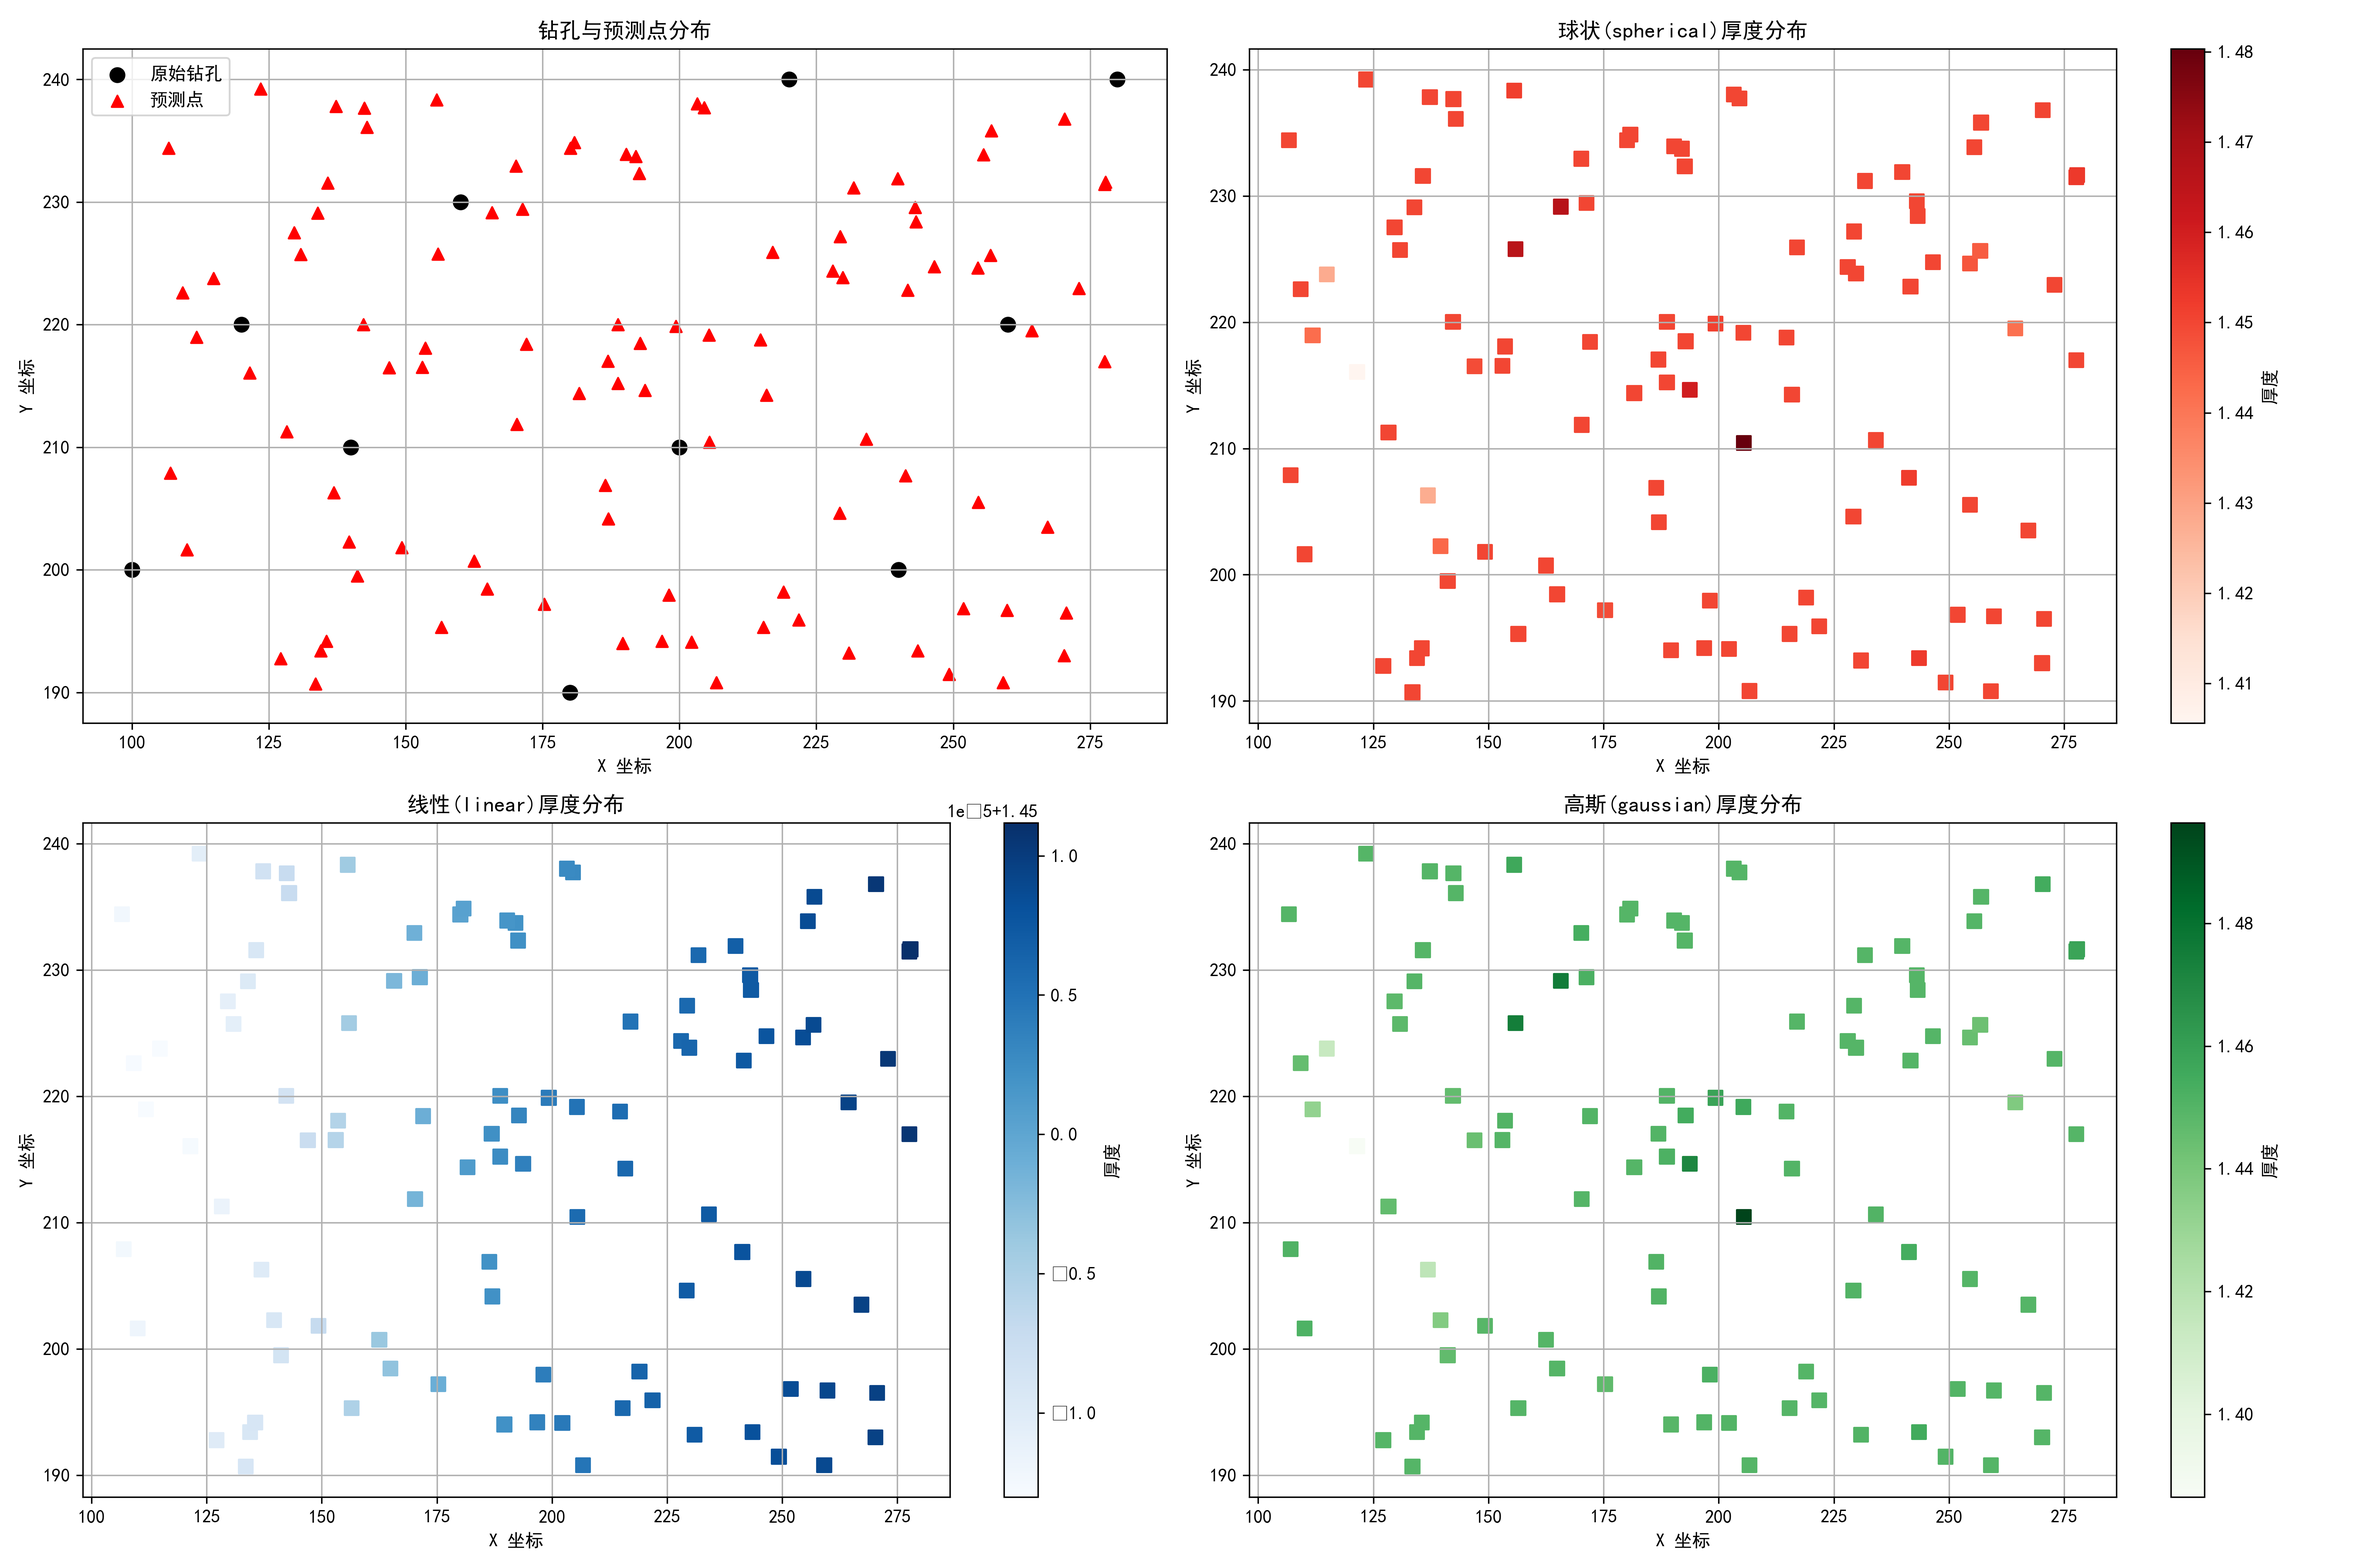
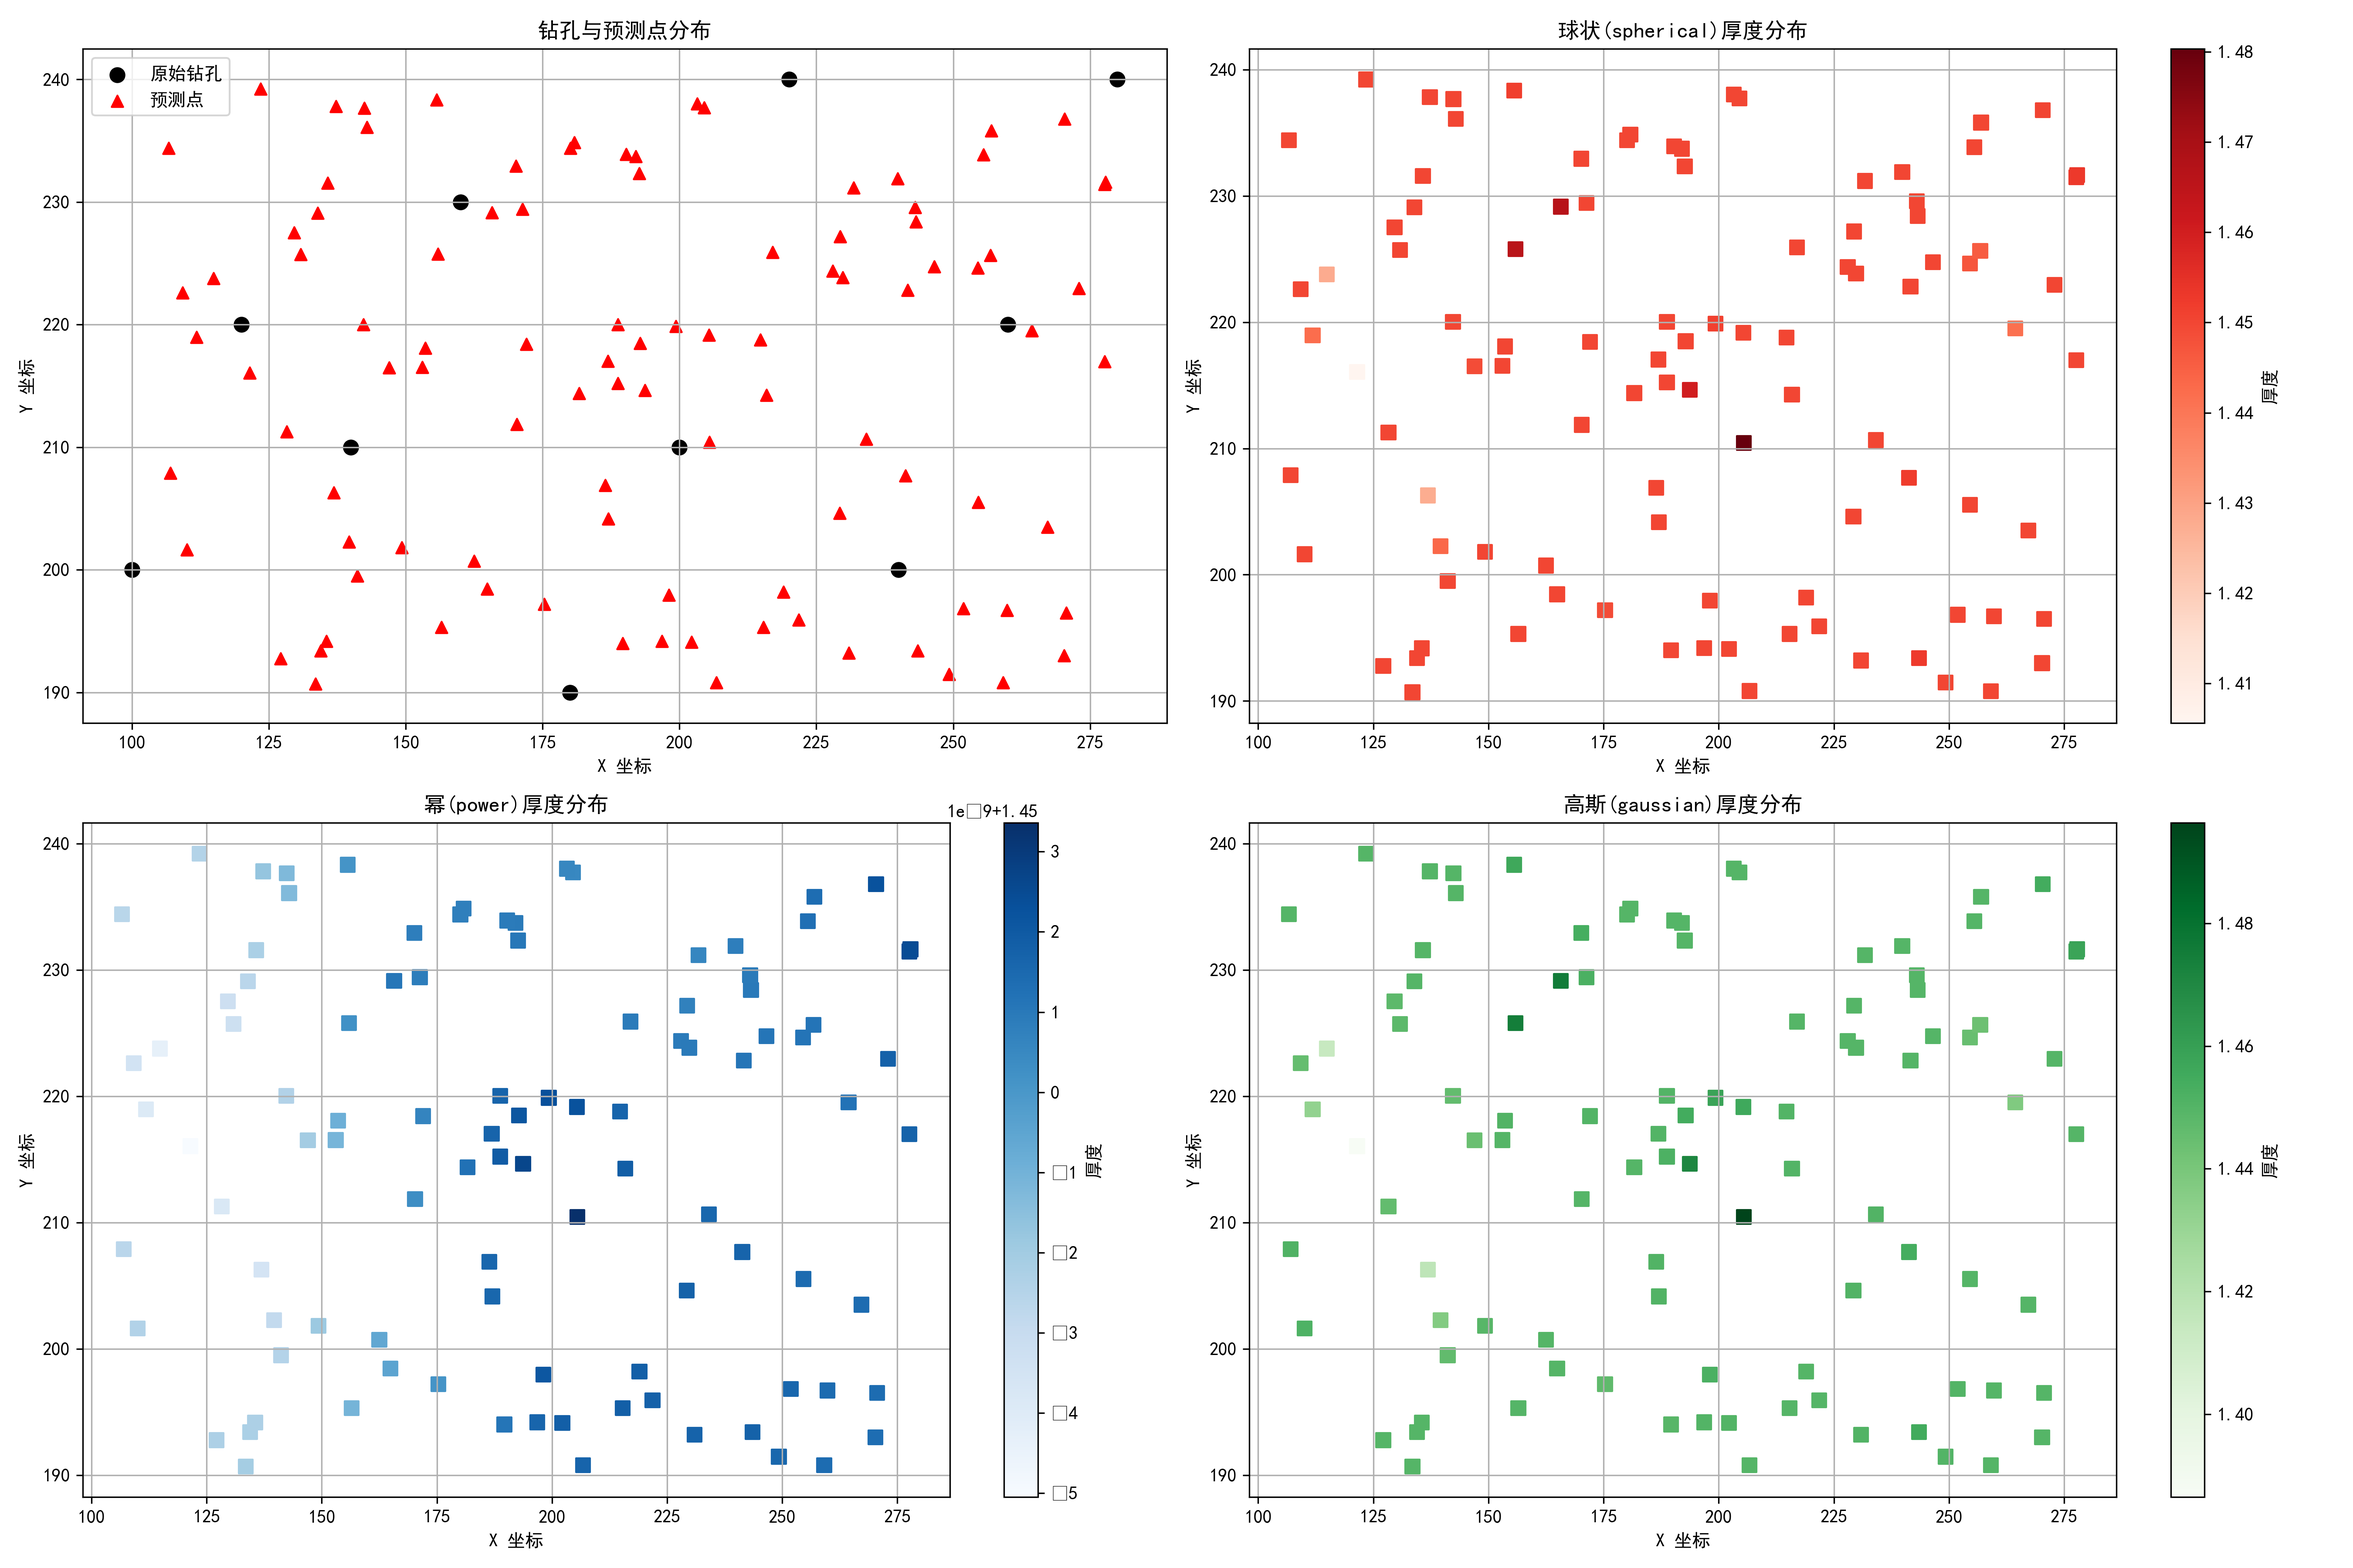
fix the problem

diff --git a/Comparison_of_different_models.py b/Comparison_of_different_models.py
@@ -75,7 +75,7 @@ ax2 = plt.subplot(2, 2, 2)
 plot_thickness(ax2, sprical_predicted_data, "球状(spherical)厚度分布", "Reds")
 
 ax3 = plt.subplot(2, 2, 3)
-plot_thickness(ax3, linear_predicted_data, "线性(linear)厚度分布", "Blues")
+plot_thickness(ax3, power_predicted_data, "幂(power)厚度分布", "Blues")
 
 ax4 = plt.subplot(2, 2, 4)
 plot_thickness(ax4, gaussian_predicted_data, "高斯(gaussian)厚度分布", "Greens")
